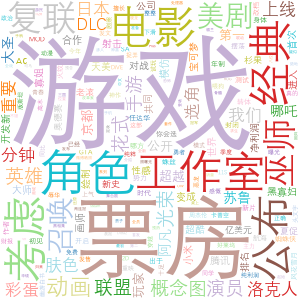
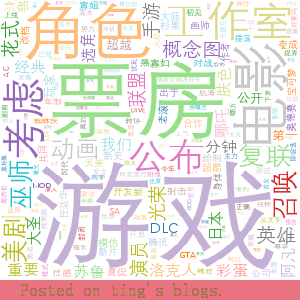
add gamedaily-game1night

diff --git a/_posts/2019-07-23-game1night-2019-07-23.md b/_posts/2019-07-23-game1night-2019-07-23.md
@@ -1,0 +1,274 @@
+---
+title: "游戏日报-2019-07-23"
+categories: game daily
+author: tingbot
+---
+
+
+Hi, morning! What did I do yesterday? What will I do today? Are there any impediments in my way?
+
+#### Overview 概述
+
+本期共收录56篇，涉及12个主题：作品(25)，历史(7)，发行(6)，单机(4)，人物(3)，动漫(2)，讨论(2)，娱乐(2)，新闻(2)，数据(1)，交易(1)，科技(1)。
+
+#### Kew words 关键词
+
+![game-daily-today-keywords](../assets/img/gamedaily/2019-07-23-ciyun.png)
+
+游戏，视频，漫威，公布，工作室，官方，角色，一段，今日，发布，亿日元，玩家，票房，本作，DLC，官微，大蛇丸，电影，拍摄，最新，展示，概念图，定妆，阿凡，联盟，试玩，雕像，小岛，特库，iOS，安卓，17，10，彩蛋，15，八王，16，秀夫，推特，黑魂，NHK，CDPR，宣传片，分享，万代，影业，守望，油管，教团，剧组。
+
+#### Summary 摘要
+
+##### [人物 | 《黑寡妇》电影首曝概念图 性感寡姐对战模仿大师](https://www.gamersky.com/news/201907/1205442.shtml)
+
+今日官方公布了《黑寡妇》的首张概念图，其中就出现了著名的正邪双方的战斗场景——寡姐娜塔莎大战模仿大师。
+
+##### [人物 | 当《英雄联盟》变成射击游戏 画师绘制超酷概念图](https://ol.gamersky.com/news/201907/1205601.shtml)
+
+如果《英雄联盟》变成了一款射击游戏会是什么样的？中国台湾画师Shen YH近日在ArtStation上分享了一组他绘制的概念图。
+
+##### [人物 | 腾讯天美工作室将与宝可梦公司合作 共同开发新游戏](https://www.gamersky.com/news/201907/1205671.shtml)
+
+腾讯游戏于2019年7月22日宣布，腾讯游戏天美工作室群（TiMi Studio Group）将与The Pokémon Company 合作研发新款游戏。
+
+##### [交易 | 杉果720夏促：《AC奥德赛》新史低 《老滚5》38元](https://www.gamersky.com/news/201907/1205653.shtml)
+
+今天是杉果720夏促的第三日，全场近4000款游戏仍在火热促销中，当然还有“每日限时特惠”，“杉果币充值返利”，“游戏随心配”，“…
+
+##### [历史 | 任达华新片《小Q》改档至9月20日 出于演员身体考虑](https://www.gamersky.com/news/201907/1205595.shtml)
+
+任达华主演电影《小Q》剧组发表声明，表示将推迟影片上映时间——该片原定7月25日上映，现改档至9月20日。声明表示改档经出品方商议…
+
+##### [历史 | 作者用4年制《GTA SA》蜘蛛侠MOD 蛛丝摆荡花式转体](https://www.gamersky.com/news/201907/1205536.shtml)
+
+这位Mod制作者花了4年时间做了个《GTA：SA》的蜘蛛侠MOD，不过后续还有更多工作等待完成。
+
+##### [历史 | 光荣《大航海时代6》手游公布 8月1日开启封闭测试](http://shouyou.gamersky.com/news/201907/1205552.shtml)
+
+今日，光荣特库摩公布了旗下《大航海时代》系列最新作《大航海时代6》，本作将登陆iOS和安卓平台，不过官方尚未公布本作的具体细节。
+
+##### [历史 | 初见《火纹风花雪月》你会选哪方势力？](https://www.gamersky.com/news/201907/1205690.shtml)
+
+《火纹风花雪月》三个势力情报公布的差不多了，发售之际，不妨聊聊你会先选哪一方？
+
+##### [历史 | 卡普空公布免费手游《洛克人X：DiVE》 今年上线](http://shouyou.gamersky.com/news/201907/1205704.shtml)
+
+今日，卡普空公布了新款手游《洛克人X：DiVE》，将登陆iOS和安卓平台，官方还公布了游戏的预告。
+
+##### [历史 | 周杰伦晒经典《头文字D》剧照发文感慨：已经14年了](https://www.gamersky.com/news/201907/1205613.shtml)
+
+今日，周杰伦在Instagram中放出了一张《头文字D》的剧照，并感慨这已经是自己的14年前拍电影了。
+
+##### [历史 | 这部日本动漫神作，被好莱坞鸽了整整17年](https://www.gamersky.com/zl/201907/1205618.shtml)
+
+一部日漫改编真人电影再次被无限期延后，距离好莱坞2002年宣布真人化的消息已经过去了整整17年。
+
+##### [数据 | 光荣1季度财报：纯利润同比下滑22% 因主力还没发售](https://www.gamersky.com/news/201907/1205661.shtml)
+
+光荣特库摩公布了新财年第一季度的财报，本期的总销售营业额为72.28亿日元、营业利润9.56亿日元、经常利润12.47亿日元。
+
+##### [讨论 | 《擅长捉弄的高木同学》喂狗粮？我们的青春很纯粹](https://www.gamersky.com/zl/201907/1205559.shtml)
+
+时值七月中旬，今年的七月新番也都已经纷纷亮相，在这样一个稍显嘈杂的夏天里，能有一部相比之下更加清爽纯粹的番，应该算得上是这…
+
+##### [讨论 | 政治正确很重要，但《上气》真的辱华吗？](https://www.gamersky.com/zl/column/201907/1205571.shtml)
+
+漫威真得是蠢到了想在政治正确大行其道的今天，拍摄一部“要去侮辱漫威电影全球最大票仓国家”的作品么？
+
+##### [发行 | 《勇者斗恶龙11S》10分钟试玩 2D模式穿越感十足](https://www.gamersky.com/news/201907/1205737.shtml)
+
+油管频道GameXplain放出了一段10分钟《勇者斗恶龙11S》试玩视频，其中展示了游戏的一些新功能。
+
+##### [发行 | 《复联4》重映版斯坦李彩蛋曝光：我们爱你3000遍](https://www.gamersky.com/news/201907/1205625.shtml)
+
+今日网上曝光了一段《复联4》重映版加入的斯坦李彩蛋，视频最后那一句“斯坦我们爱你3000遍”令人泪目。
+
+##### [发行 | 《幽游白书》舞台剧定妆照曝光 全员登场超还原](http://acg.gamersky.com/news/201907/1205684.shtml)
+
+官方公开了《幽游白书》舞台剧的全员定妆照，幽助、桑原、藏马、飞影、小阎王等10位角色登场亮相。从定妆照的效果来看，大家都是相…
+
+##### [发行 | 《黑相集：棉兰号》新中文预告 电影式恐怖渗人骨髓](https://www.gamersky.com/news/201907/1205565.shtml)
+
+《黑相集：棉兰号》公开多人游玩要素、首批特典内容及新宣传片。
+
+##### [发行 | 华硕ROG游戏手机2发布 首发骁龙855 Plus处理器](https://www.gamersky.com/tech/201907/1205632.shtml)
+
+ROG游戏手机2拥有一块6.59英寸1080p分辨率OLED显示屏，集成屏幕指纹、10bit HDR（108% P3色域、Delta E < 1）、120Hz刷新率、240Hz…
+
+##### [发行 | 晨报：OW疑似再预热新英雄 巫师美剧选角不考虑肤色](https://www.gamersky.com/news/201907/1205402.shtml)
+
+《守望先锋》官方发布神秘视频；美剧《巫师》选角不考虑肤色因素；《漫威终极联盟3：黑暗教团》首个付费DLC增加新可玩角色；《战神…
+
+##### [作品 | Steam周销量榜：V社VR套件两连冠 《绝地求生》第二](https://www.gamersky.com/news/201907/1205405.shtml)
+
+Steam上周销量排行榜出炉（7月15日-7月21日），Valve Index VR套件蝉联榜首，第二名为《绝地求生》
+
+##### [作品 | 《Dota2》B神喜得贵子 微博晒照：Ti28冠军C来了！](https://ol.gamersky.com/news/201907/1205633.shtml)
+
+今日，@BurNIng徐志雷在微博晒出了自己刚出生孩子的照片，十分有爱。
+
+##### [作品 | 《三国全战》新DLC司马乂：起始位置不错的改革家](https://www.gamersky.com/news/201907/1205739.shtml)
+
+今日，CA公布了《三国：全面战争》新DLC“八王之乱”的“八王”之一——司马乂。
+
+##### [作品 | 《克苏鲁的召唤》桌上游戏系列介绍·准备篇](https://www.gamersky.com/zl/201907/1205682.shtml)
+
+从玩法、规则、数值等方面入手，为大家揭开《克苏鲁的召唤》桌上游戏的面纱。
+
+##### [作品 | 《哪吒》联动大圣归来 哪吒大圣江流儿三人同上厕所](https://www.gamersky.com/news/201907/1205740.shtml)
+
+官微发布了一段《哪吒之魔童降世》联动《西游记之大圣归来》的视频，在这段视频中哪吒、唐僧、大圣三人一起在厕所中如厕。
+
+##### [作品 | 《复联4》票房正式超过《阿凡达》 成影史第一](https://www.gamersky.com/news/201907/1205282.shtml)
+
+根据票房统计网站Box Office Mojo的最新数据，《复仇者联盟4：终局之战》的总票房正式超过了《阿凡达》，成为影史第一。
+
+##### [作品 | 《天气之子》首周票房破16亿日元 超越你的名字同期](http://acg.gamersky.com/news/201907/1205572.shtml)
+
+上周末的日本电影票房已经出炉，《天气之子》首周票房突破16亿日元，为16亿4380万日元，一共有115万9020人到场观看。
+
+##### [作品 | 《守望先锋》又发神秘视频 红光闪烁警报不断](https://ol.gamersky.com/news/201907/1205413.shtml)
+
+《守望先锋》官博又发布了一段神秘视频，展示了一件类似实验服的镜头，其中衣服上标有希腊字母“Σ”的标志。
+
+##### [作品 | 《幽灵行动断点》ESRB评级17+ 很暴力、开黄色玩笑](https://www.gamersky.com/news/201907/1205562.shtml)
+
+今日评级机构ESRB公布了对《幽灵行动：断点》的评级——M（成人17+），这意味着游戏中确实有很多少儿不宜的内容。
+
+##### [作品 | 《数码宝贝：生存》开场动画公开 画风美腻角色养眼](https://www.gamersky.com/news/201907/1205738.shtml)
+
+万代南梦宫公布了《数码宝贝：生存》开场动画。
+
+##### [作品 | 《死亡搁浅》这位角色每隔21分钟死一次 精神很感人](https://www.gamersky.com/news/201907/1205434.shtml)
+
+最近在SDCC漫展活动上，小岛秀夫参加节目时透露了Heartman（换心人）这名角色的新情报。
+
+##### [作品 | 《漫威终极联盟3》DLC公布 加入刀锋战士等4名角色](https://www.gamersky.com/news/201907/1205416.shtml)
+
+美任官方推特公布了《漫威终极联盟3：黑暗教团》的第一个DLC，加入了刀锋战士（Blade）、月光骑士（Moon knight）、惩罚者（Punishe…
+
+##### [作品 | 《火影忍者》大蛇丸战斗雕像 召唤巨蛇魄力逼人](http://acg.gamersky.com/otaku/zb/201907/1205639.shtml)
+
+雕像工作室STR将推出一款大蛇丸战斗时候的雕像，雕像采用了大蛇丸召唤出巨蛇，手持短剑的形象，将大蛇丸的压迫力很好的展现出来，效…
+
+##### [作品 | 《狮子王》内地票房10天破6亿 北美票房也将破纪录](https://www.gamersky.com/news/201907/1205687.shtml)
+
+迪士尼电影官微发布消息，《狮子王》真狮版内地票房已破6亿，并发布了庆祝海报以及一段宣传片。
+
+##### [作品 | 《辐射4》中暗藏小岛秀夫彩蛋 隐藏之深超难发现](https://www.gamersky.com/news/201907/1205551.shtml)
+
+开发者Joel Burgess，目前在育碧工作，曾在Bethesda开发过《辐射4》，近日他在推特分享了一个暗藏在《辐射4》中与小岛秀夫的彩蛋。
+
+##### [作品 | 《雷神4》女武神是MCU首位LGBTQ角色 会有相关剧情](https://www.gamersky.com/news/201907/1205580.shtml)
+
+据外媒comicbook报道，漫威影业总裁凯文·费奇在接受采访时透露，由泰莎·汤普森饰演的“女武神”将是MCU中首位LGBTQ角色。
+
+##### [作品 | 《龙珠Z：卡卡罗特》新截图 短笛、贝吉塔帅气亮相](https://www.gamersky.com/news/201907/1205437.shtml)
+
+今日万代南梦宫官推发布了一组《龙珠Z：卡卡罗特》的新截图，展示了游戏中的一些可操控角色和支援角色。
+
+##### [作品 | 俄妹COS《黑魂》砂之咒术师 皮鞭和黑丝更般配](https://www.gamersky.com/ent/201907/1205628.shtml)
+
+对于黑魂系列钟爱的玩家一定会对砂之咒术师套装印象很深。小编当初在《黑魂2》流油谷初见时就十分惊艳，为此还建了个女号耗时一天刷…
+
+##### [作品 | 卡梅隆恭喜《复联4》票房超越阿凡达：I See You](https://www.gamersky.com/news/201907/1205723.shtml)
+
+《阿凡达》的导演詹姆斯·卡梅隆也向漫威影业发来贺词并为其制作了一张庆祝海报。
+
+##### [作品 | 帕斯亚《超级巴基球》首曝实机演示 花式玩球超爽快](https://www.gamersky.com/news/201907/1205665.shtml)
+
+帕斯亚科技首次公布了旗下最新多人休闲体育竞技游戏《超级巴基球》一段八分多钟的实机演示视频，展示了游戏的部分操作与角色技能。
+
+##### [作品 | 电影《鬼吹灯之天星术》国内戏杀青 公开硬核海报](https://www.gamersky.com/news/201907/1205440.shtml)
+
+电影《鬼吹灯之天星术》在经过两个多月的拍摄后，宣布本作的国内戏份全部杀青，之后剧组将前往俄罗斯继续拍摄。
+
+##### [作品 | 美剧《巫师》第一季就有洗澡镜头：想致敬每个细节](https://www.gamersky.com/news/201907/1205598.shtml)
+
+《巫师3》中会有“洗澡”镜头，因为制作组想致敬每个细节。
+
+##### [作品 | 美剧《巫师》选角不考虑肤色等因素 演员表现最重要](https://www.gamersky.com/news/201907/1205424.shtml)
+
+剧的制片人Lauren S. Hissrich在接受Comicbook采访时表示，她在为这部电视剧选择角色时并不在乎一个人的肤色、口音或头发的颜色。
+
+##### [作品 | 蒂姆.威尔茨：处境尴尬的《DOOM》元老](https://www.gamersky.com/zl/201907/1205686.shtml)
+
+虽然影响力不如90年代，但id Software仍然有着很高的业界地位。能够成为这家工作室最早期的成员，同时也是在位时长最高的人，理应也…
+
+##### [作品 | 踏入此门放弃一切希望 《克苏鲁的召唤》桌戏背景](https://www.gamersky.com/zl/201907/1205616.shtml)
+
+人类居住在幽暗的海洋中一个名为无知的小岛上，这海洋浩淼无垠、蕴藏无穷秘密，但我们并不应该航行过远，探究太深。——H.P.洛夫克…
+
+##### [动漫 | 京都动画工作室纵火案详情 嫌疑人或曾以本社为目标](http://acg.gamersky.com/news/201907/1205599.shtml)
+
+根据NHK的最新道称，在距离火灾现场不远的京都动画本社和其他工作室附近，监控摄像头也拍摄到了疑似嫌疑人青叶真司的身影，警方怀疑…
+
+##### [动漫 | 京都动画知名监督武本康弘下落不明 父亲流泪盼平安](http://acg.gamersky.com/news/201907/1205427.shtml)
+
+根据NHK的最新报道，都目前为止制作过《幸运星》等作品的监督武本康弘目前依然是下落不明。
+
+##### [单机 | 国外大神用钢琴玩N64经典游戏 还不忘弹曲儿助兴](https://www.gamersky.com/news/201907/1205716.shtml)
+
+近日，油管大神Jackson Parodi上传了一段非常牛的视频，他用钢琴按键试玩了N64经典游戏《007：黄金眼》，令人惊叹。
+
+##### [单机 | 基努喊话中国玩家：我迫不及待想和你们去探索！](https://www.gamersky.com/news/201907/1205697.shtml)
+
+CDPR官微发布消息，基努·里维斯遥祝CDPR首次中国玩家见面会成功，并录了一段语音向中国玩家问好。
+
+##### [单机 | 洛克人Zero厂商老总：独占在消亡 索尼微软或遇困境](https://www.gamersky.com/news/201907/1205429.shtml)
+
+Inti Creates的总裁会津卓表示随着独占的消亡，他认为索尼和微软在下世代主机的竞争中可能会遭遇困境。
+
+##### [单机 | 网易宣布在蒙特利尔成立游戏工作室 将继续海外扩张](https://www.gamersky.com/news/201907/1205735.shtml)
+
+今日，网易官方发布消息，日前在加拿大魁北克省蒙特利尔新城了一家视频游戏工作室，目前该工作室将在北美招聘当地以及国际人才来进…
+
+##### [娱乐 | 在线与喜欢的女孩聊天 粉红色肉球的晚间沙雕囧图](https://www.gamersky.com/ent/201907/1205676.shtml)
+
+nan
+
+##### [娱乐 | 想和大姐姐一起健身 日本超胸樱花妹腹肌瞩目](https://www.gamersky.com/ent/201907/1204747.shtml)
+
+日本樱花妹都以软妹子占大多数，但是今天益达为大家分享的这位来自日本的“大胸姐”——REONA，不仅颜值很能打，平时也十分热爱游泳…
+
+##### [新闻 | 化身头号玩家！凤凰游戏定制T恤第一弹：游戏分级款](https://www.gamersky.com/news/201907/1205685.shtml)
+
+化身头号玩家，让世界知道你的level。 凤凰游戏首次推出个性化定制T恤第一弹——游戏分级款。
+
+##### [新闻 | 暑期也要嗨不停 参与评论赢取雷柏电竞游戏外设](https://www.gamersky.com/news/201907/1205583.shtml)
+
+暑期也要嗨不停，参与评论，赢取雷柏电竞游戏外设
+
+##### [科技 | 苹果召回部分2015款MacBook Pro：电池会自燃起火](https://www.gamersky.com/tech/201907/1205558.shtml)
+
+对于苹果来说，正式开启15英寸MacBook Pro电池召回工作至关重要，因为之前已经出现几起引电池起火的事情，所以官方也是积极开启相关…
+
+#### References 来源
+
+- 游民星空：[https://www.gamersky.com/news](https://www.gamersky.com/news) 
+
+#### Intro 简介
+
+Here is ting's Game Daily - a reference to the game. Produced by game1night, Tingbot is responsible for editing and publishing. Looking forward to better performance.
+
+早上好，这里是“叮！游戏日报”——收录有关游戏的参考资料。由game1night出品，由Tingbot编辑和发布。期待更好的表现。
+
+![game-daily-intro](../assets/img/gamedaily/0_game1night.png)
+
+#### Yestodays 近期收录
+
+##### [Game Daily 2019-07-23](https://tatatingting.github.io/post/2019-07-23-game1night-2019-07-23) （当日收录64条，累计546条）
+
+##### [Game Daily 2019-07-23](https://tatatingting.github.io/post/2019-07-23-game1night-2019-07-23) （当日收录58条，累计604条）
+
+##### [Game Daily 2019-07-23](https://tatatingting.github.io/post/2019-07-23-game1night-2019-07-23) （当日收录59条，累计663条）
+
+##### [Game Daily 2019-07-23](https://tatatingting.github.io/post/2019-07-23-game1night-2019-07-23) （当日收录56条，累计719条）
+
+##### [Game Daily 2019-07-22](https://tatatingting.github.io/post/2019-07-22-game1night-2019-07-22) （当日收录41条，累计444条）
+
+##### [Game Daily 2019-07-22](https://tatatingting.github.io/post/2019-07-22-game1night-2019-07-22) （当日收录38条，累计482条）
+
+##### [Game Daily 2019-07-21](https://tatatingting.github.io/post/2019-07-21-game1night-2019-07-21) （当日收录37条，累计403条）
+
+感谢阅读。
